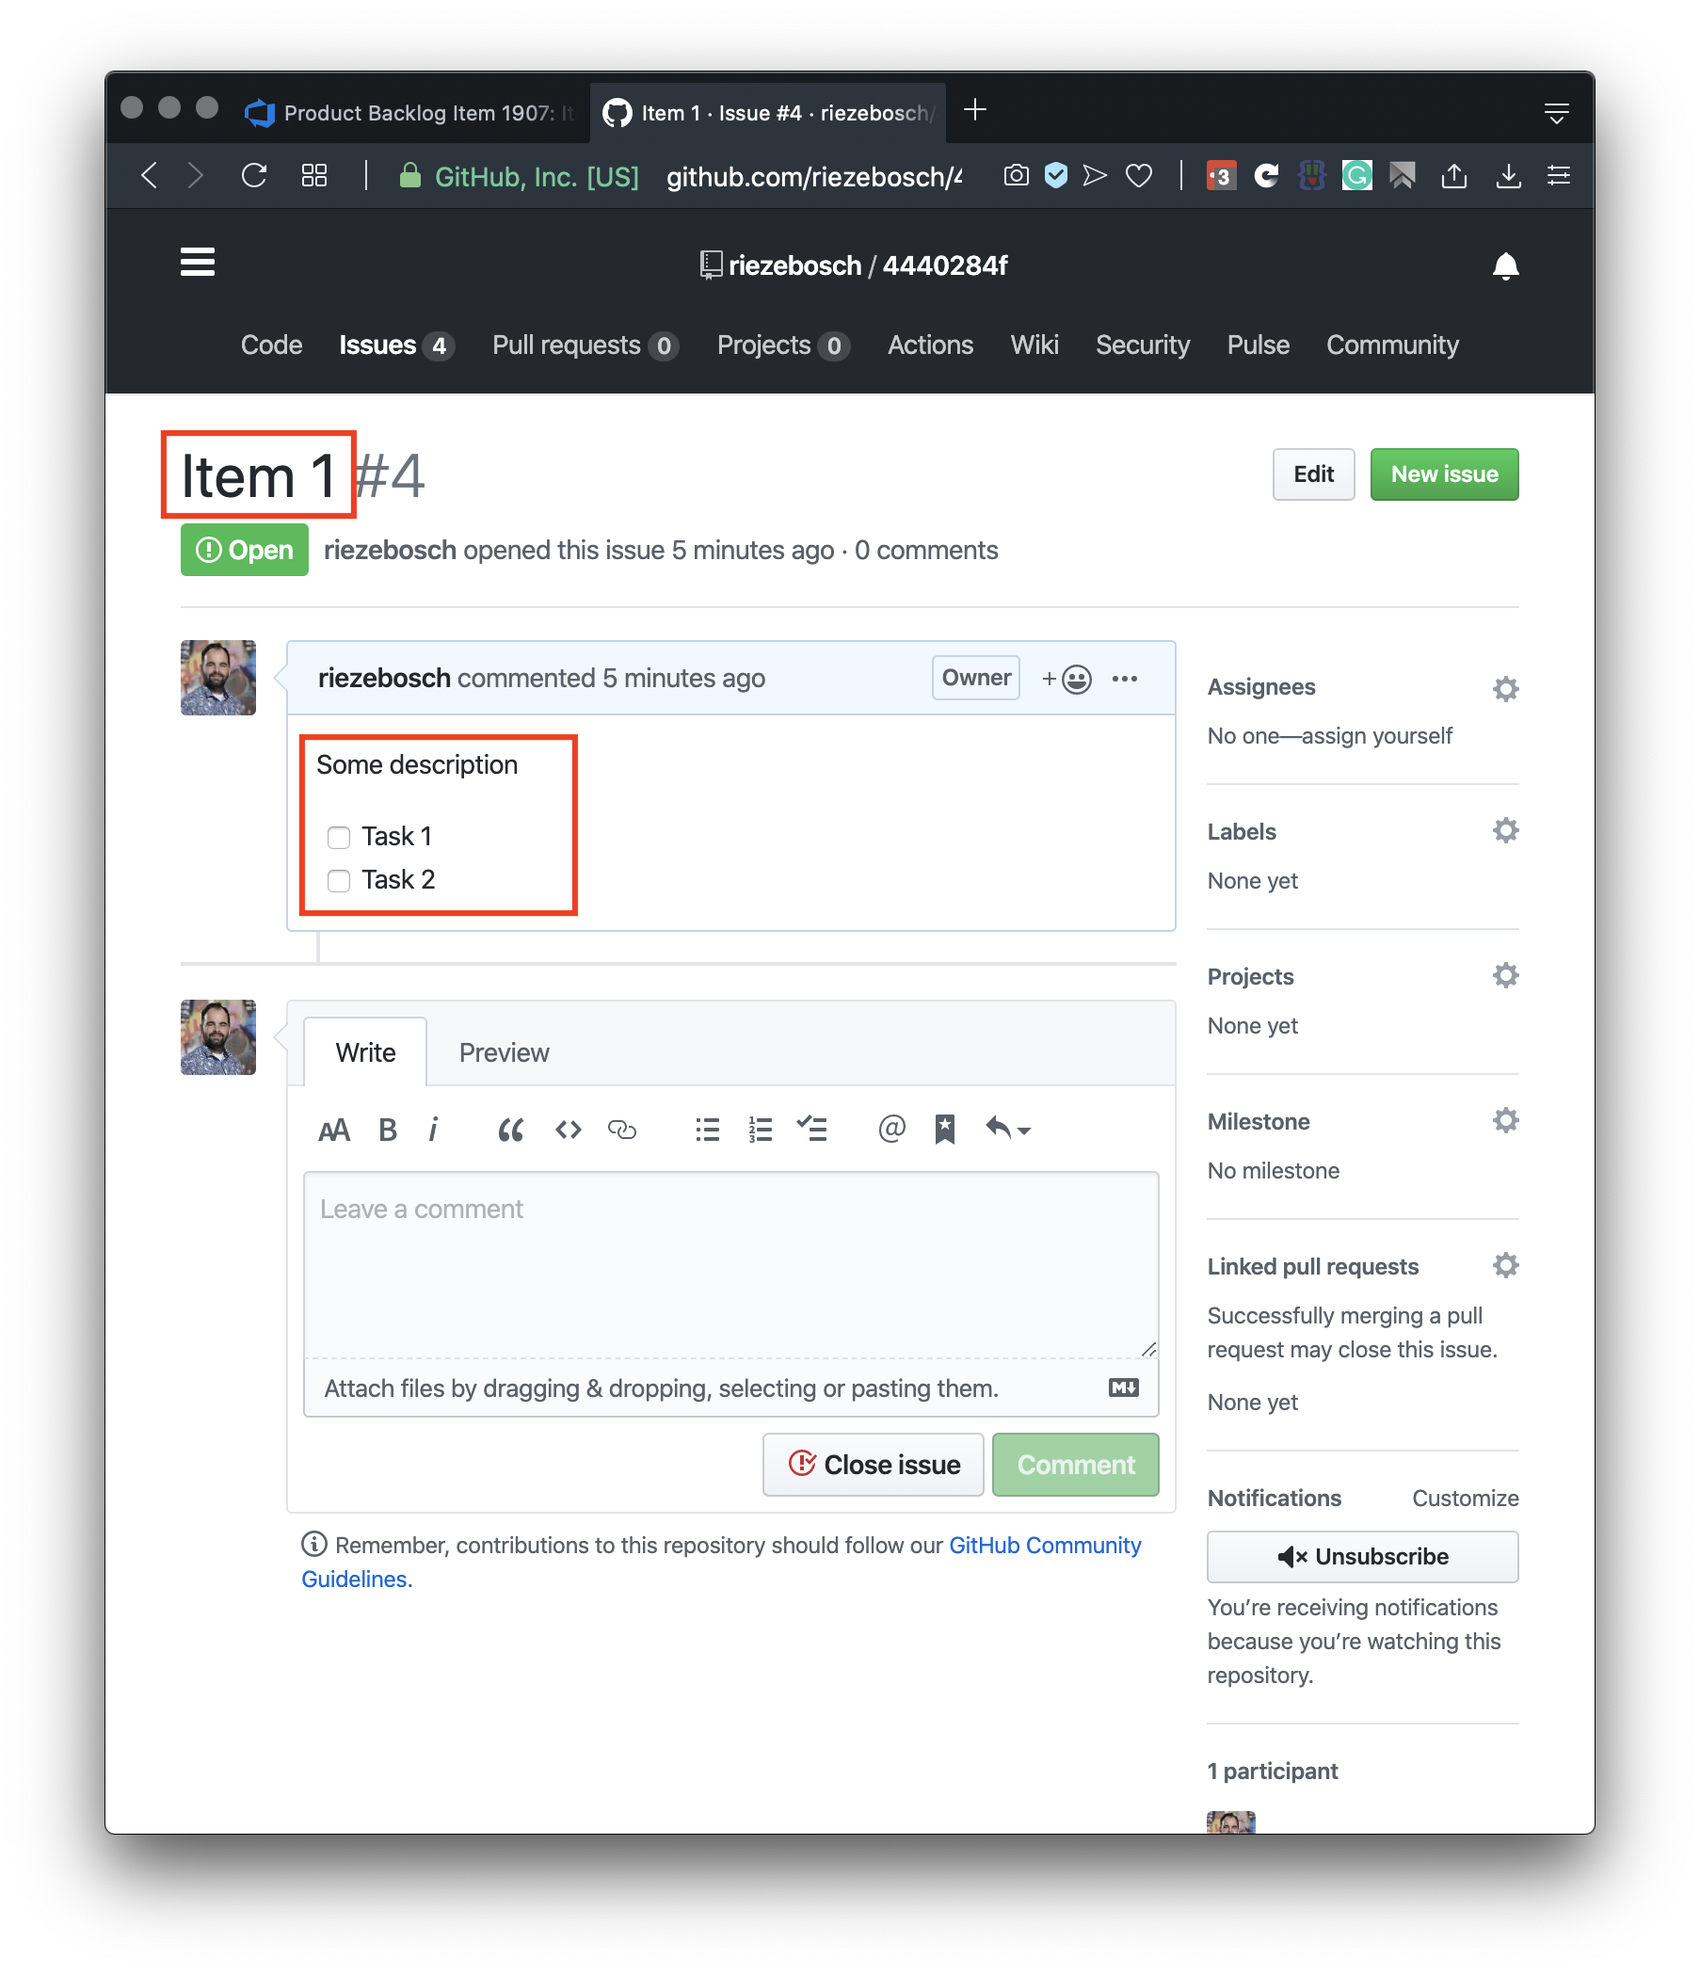
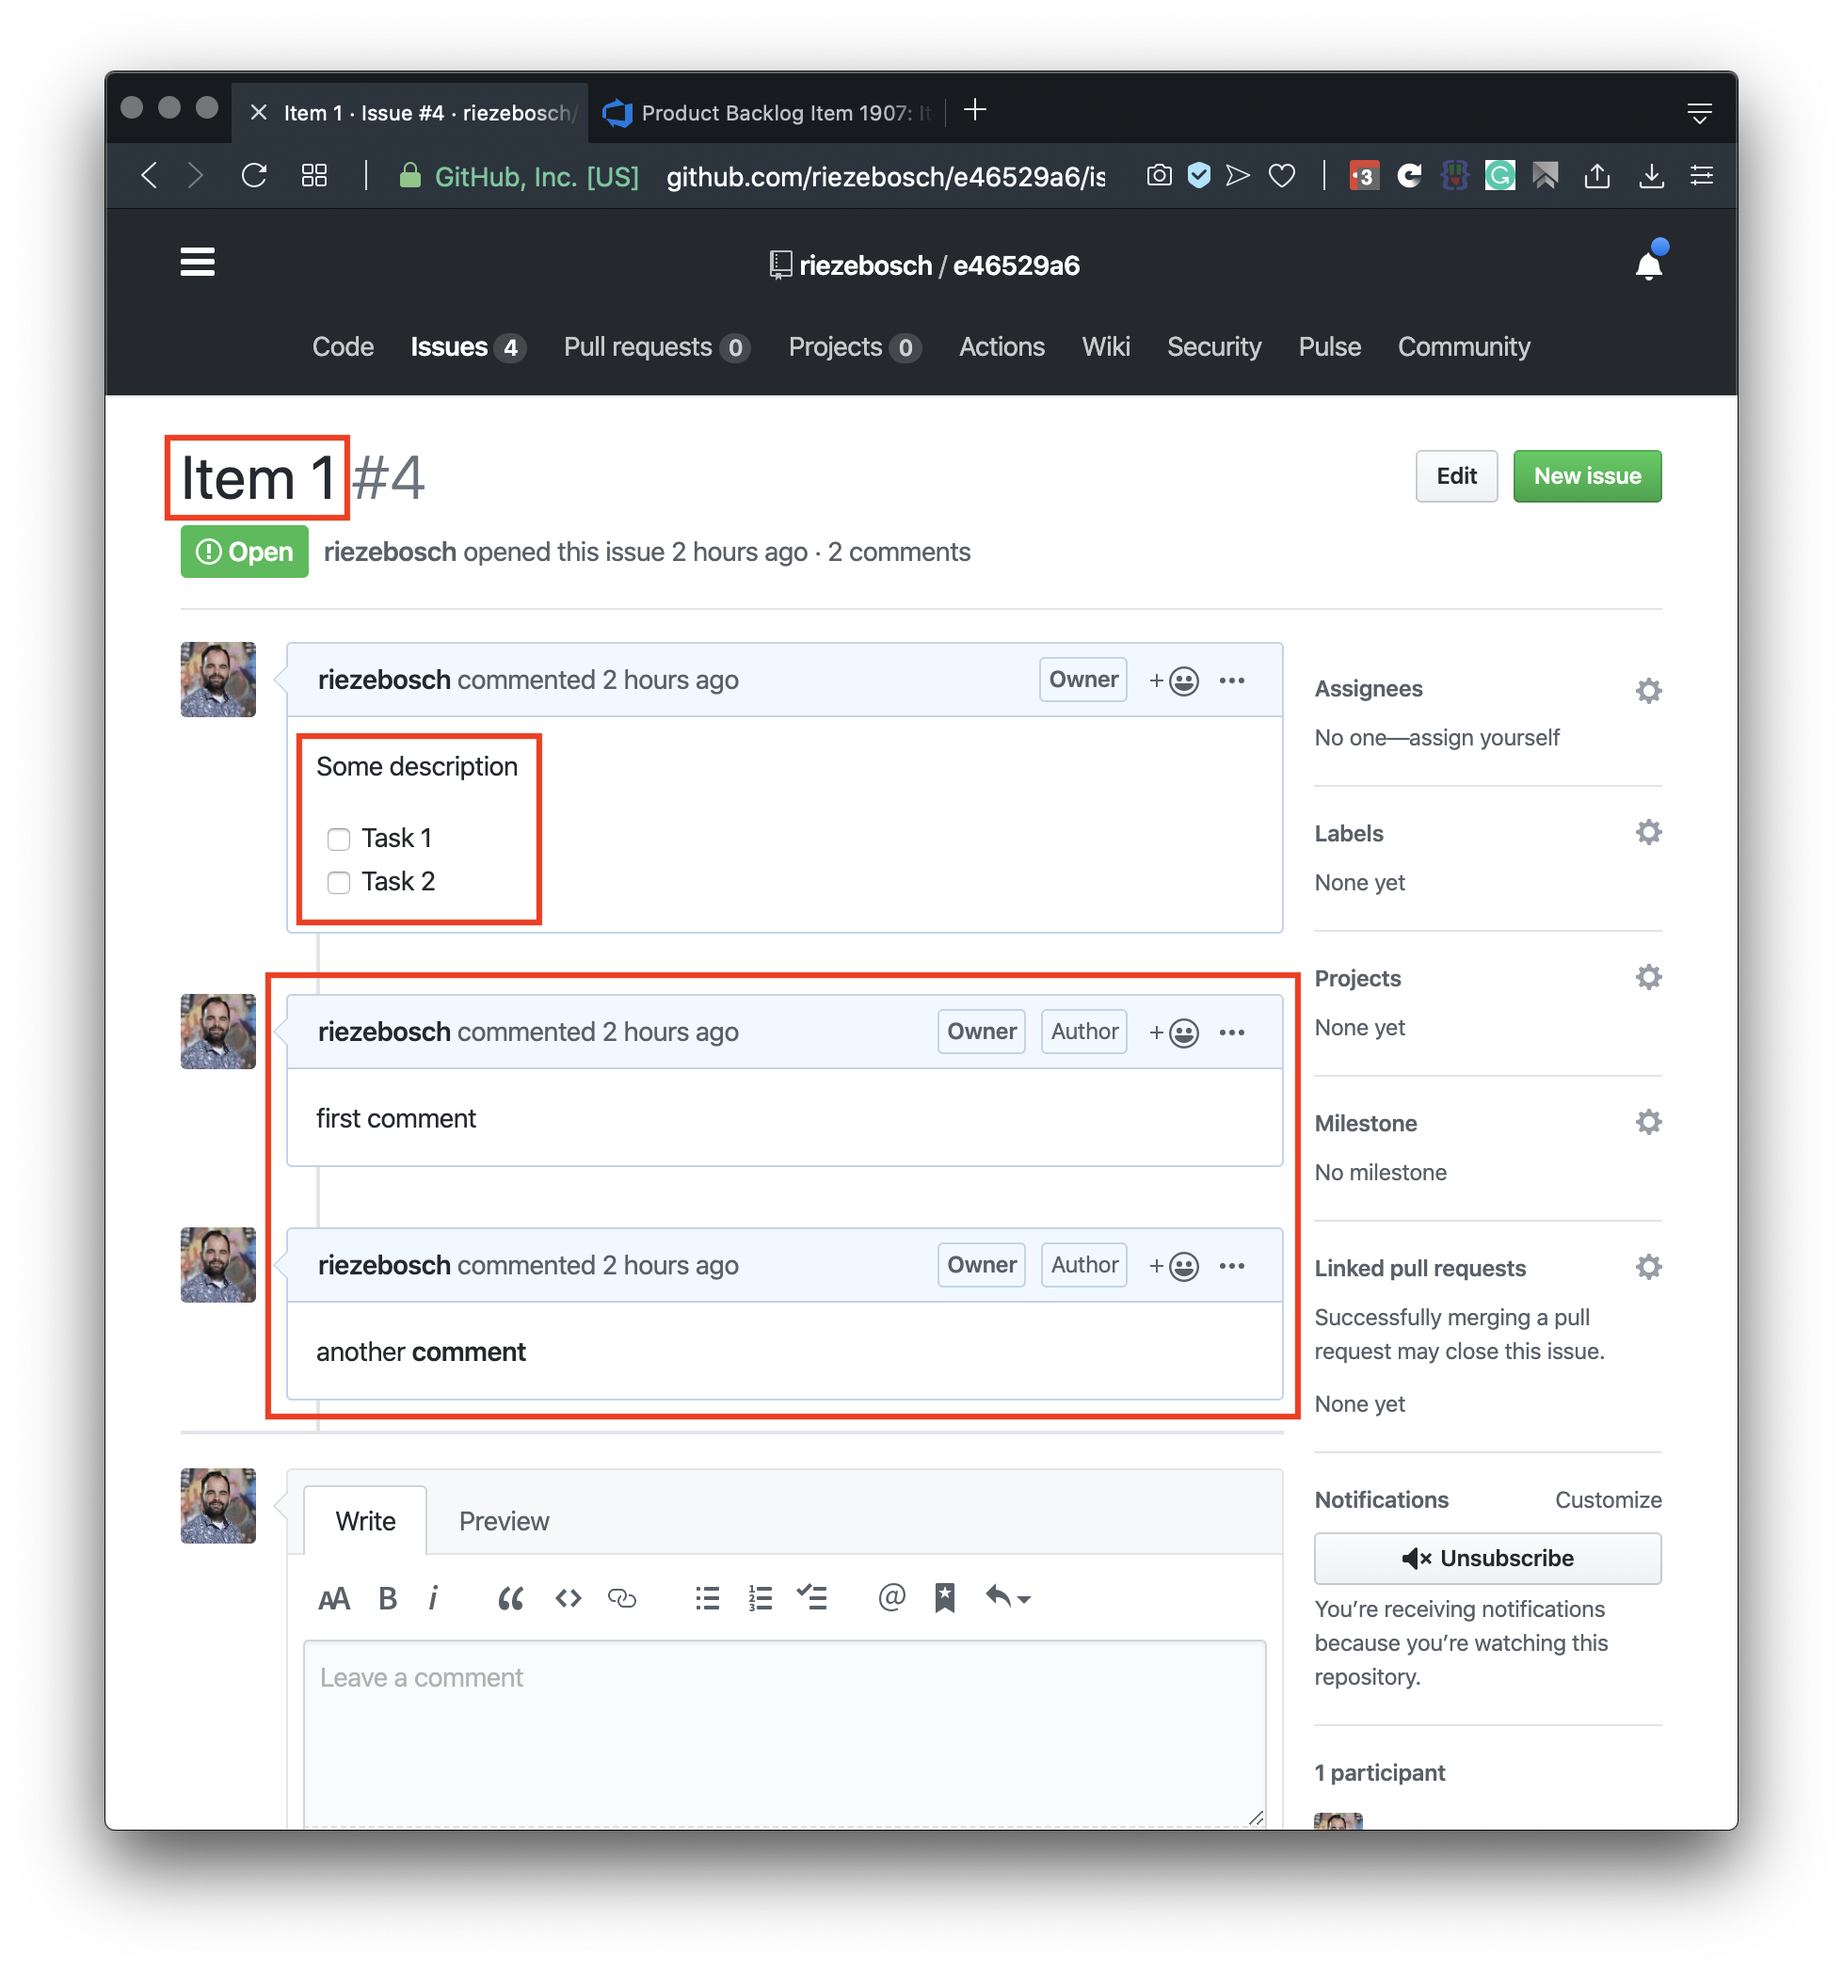
feat(readme): migrate comments

diff --git a/Functions.Frontend/src/App.test.tsx b/Functions.Frontend/src/App.test.tsx
@@ -1,5 +1,5 @@
 import React from 'react';
-import { render, fireEvent, wait, screen } from '@testing-library/react';
+import { render, fireEvent, wait, screen, waitForElementToBeRemoved, queryByTestId } from '@testing-library/react';
 import App from './App';
 import axios from 'axios'
 
@@ -67,6 +67,25 @@ test('show function error', async () => {
   fireEvent.click(getByRole('button'));
 
   await wait(() => getByText('function failed'));
+});
+
+test('show loading', async () => {
+  const { getByLabelText, getByRole, getByTestId, queryByTestId } = render(<App />);  
+
+  axiosMock.post.mockResolvedValue({ 
+    data: null
+  });
+
+  fireEvent.change(getByLabelText('azure devops token *'), { target: { value: 'xxx' }});
+  fireEvent.change(getByLabelText('organization *'), { target: { value: 'test' }});
+  fireEvent.change(getByLabelText('area path *'), { target: { value: 'test/team A' }});
+  fireEvent.change(getByLabelText('github token *'), { target: { value: 'yyy' }});
+  fireEvent.click(getByRole('button'));
+
+  await wait(() => getByTestId('loading'));
+  expect(queryByTestId('error')).toBe(null);  
+
+  await waitForElementToBeRemoved(() => getByTestId('loading'));
 });
 
 test('go button disabled while required input empty', async () => {

diff --git a/Functions.Frontend/src/App.tsx b/Functions.Frontend/src/App.tsx
@@ -68,17 +68,17 @@ function App() {
                     token: gitHubToken
                   }
                 })
-                .then(r => r.data.runtimeStatus === 'Failed' ? setError('function failed') : setError(''))
+                .then(r => r.data?.runtimeStatus === 'Failed' ? setError('function failed') : setError(''))
                 .catch(x => setError(x.toString()))
                 .finally(() => setLoading(false))
               }}>Go!</Button>    
           </div>
           </form>
         </Card>
-        <Snackbar open={error !== ''} autoHideDuration={6000} onClose={ () => setError('') }>
+        <Snackbar open={error !== ''} autoHideDuration={6000} onClose={ () => setError('') } data-testid="error">
             <Alert severity='error'>{error}</Alert>
         </Snackbar>
-        <Snackbar open={loading} autoHideDuration={6000} onClose={ () => setLoading(false) }>
+        <Snackbar open={loading} autoHideDuration={6000} onClose={ () => setLoading(false) }  data-testid="loading">
           <CircularProgress />
         </Snackbar>
       </header>

diff --git a/README.md b/README.md
@@ -9,7 +9,7 @@ All *open* Product Backlog Items are converted into issues.
 ![backlog](docs/backlog.png)
 ![issues](docs/issues.png)
 
-Related Tasks are converted into a task list:
+Related Tasks are converted into a task list and added to the description of the issue:
 
 ![pbi](docs/pbi.png)
 ![issue](docs/issue.png)
